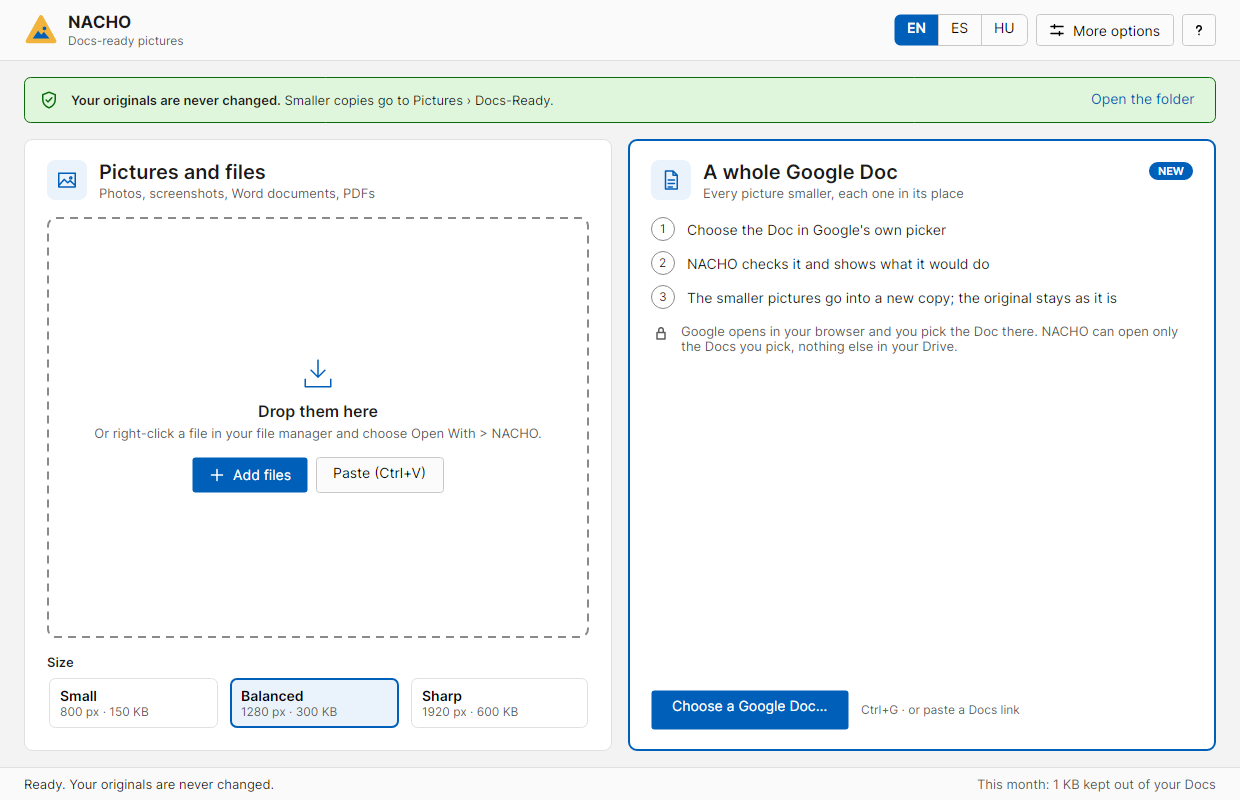
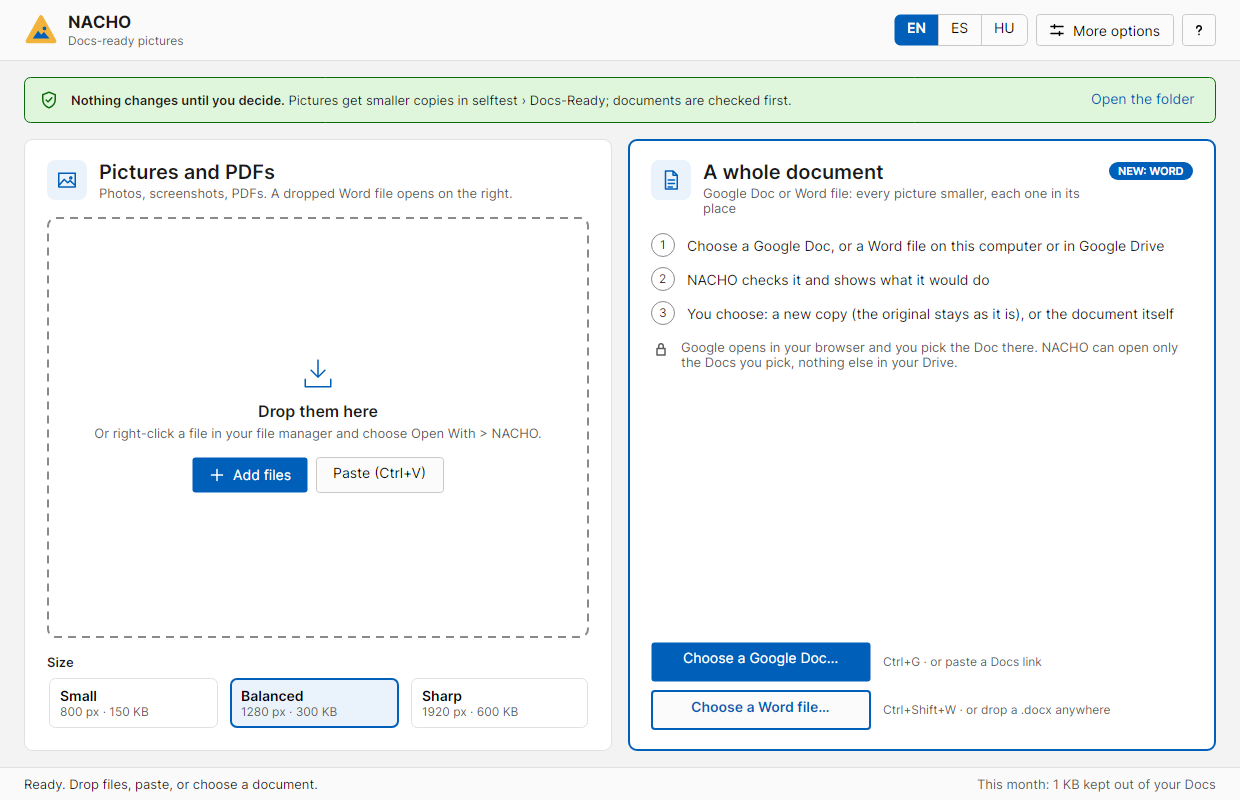
NACHO homepage and privacy policy: Word files (0.12.0)
The homepage mentions Word files on this PC or in Google Drive and shows the
new start screen and the Word window. The privacy policy covers Word files
picked in Google Drive under the same drive.file permission.

Claude-Session: https://claude.ai/code/session_01EvAJVggGjSeFEzwAp2Dcws

diff --git a/index.html b/index.html
@@ -19,14 +19,15 @@
 <h2>Shrink a whole Google Doc, keep the original safe</h2>
 <p>Choose a Doc in Google's own file picker. NACHO checks every picture first and shows what it would do. Then, by default, it puts the smaller pictures into <strong>a new copy of the Doc</strong>, in the same Drive folder, so your original stays exactly as it is. Each picture keeps its place, size and wrapping. If you prefer, NACHO can change the Doc itself instead, keeping its link, comments, sharing and version history.</p>
 <p>A real 410-page book with 251 photos went from 524 MB to 39 MB.</p>
+<p><strong>New in 0.12.0: Word files too.</strong> The same steps for a .docx on your computer or in Google Drive: a smaller copy next to the original by default, or the file itself, with the original saved first and a Restore original button.</p>
 <p><a class="button" href="https://github.com/csabakovacs314/NACHO/releases/latest">Download NACHO</a></p>
 </div>
 
 <h2>How it looks</h2>
 <p class="note">Screenshots from NACHO's own self-test, with a sample Doc and a test account.</p>
 <figure>
-<img src="img/start.png" width="1240" height="800" alt="NACHO start screen: Pictures and files on the left, A whole Google Doc on the right with three steps and a Choose a Google Doc button" loading="lazy">
-<figcaption>NACHO opens with both ways in: single pictures and files, or a whole Google Doc.</figcaption>
+<img src="img/start.png" width="1240" height="800" alt="NACHO start screen: Pictures and PDFs on the left, A whole document on the right with three steps, Choose a Google Doc and Choose a Word file" loading="lazy">
+<figcaption>NACHO opens with both ways in: single pictures and PDFs, or a whole document (a Google Doc or a Word file).</figcaption>
 </figure>
 <div class="pair">
 <figure>
@@ -38,14 +39,25 @@
 <figcaption>Step 5: the smaller copy is ready and the original is not touched.</figcaption>
 </figure>
 </div>
+<div class="pair">
+<figure>
+<img src="img/word-decide.png" width="704" height="821" alt="Word file, step 3: the file gets 96% smaller; Into this file selected, the original is saved first" loading="lazy">
+<figcaption>A Word file, step 3: a new copy next to the original, or the file itself with the original saved first.</figcaption>
+</figure>
+<figure>
+<img src="img/word-done.png" width="704" height="821" alt="Word file, step 5: Team handbook.docx is smaller, with Restore original" loading="lazy">
+<figcaption>Step 5: the file is smaller, and Restore original puts the old one back.</figcaption>
+</figure>
+</div>
 <figure>
 <img src="img/results.png" width="1224" height="761" alt="NACHO results: each picture as a card with the old size struck through and the new size, with a page-fit preview" loading="lazy">
-<figcaption>Single pictures, Word documents and PDFs: smaller copies, the original never changes.</figcaption>
+<figcaption>Single pictures and PDFs: smaller copies, the original never changes.</figcaption>
 </figure>
 
 <ul>
 <li><strong>Single pictures:</strong> drop a photo or screenshot on NACHO and it makes a small, Docs-ready copy. Your original file is never changed.</li>
-<li><strong>Word documents and PDFs:</strong> every picture inside is shrunk at once.</li>
+<li><strong>Word files:</strong> every picture inside is shrunk at once, on your computer or in Google Drive.</li>
+<li><strong>PDFs:</strong> pictures sharper than needed are scaled down; text, links and forms stay.</li>
 <li>English, Spanish and Hungarian.</li>
 </ul>
 
@@ -53,7 +65,7 @@
 
 <h2>How NACHO uses your Google account</h2>
 <div class="card">
-<p>Only when you use "Shrink a Google Doc". You sign in with Google in your browser and choose the Doc in Google's own file picker. NACHO can then open <strong>only the files you choose</strong> (and the temporary files it creates itself). It cannot see any other file in your Drive or any other Doc.</p>
+<p>Only when you use "Shrink a Google Doc" or choose a Word file in Google Drive. You sign in with Google in your browser and choose the Doc in Google's own file picker. NACHO can then open <strong>only the Docs and files you choose</strong> (and the temporary files it creates itself). It cannot see any other file in your Drive or any other Doc.</p>
 <p>The pictures are made smaller on your own computer and put into a copy of the Doc that Google makes in your Drive (or into the Doc itself, if you choose). Nothing is sent anywhere else. Details: <a href="privacy.html">privacy policy</a>.</p>
 </div>
 

diff --git a/privacy.html b/privacy.html
@@ -9,7 +9,7 @@
 <body>
 <main>
 <h1>NACHO privacy policy</h1>
-<p class="tagline">Last updated: 27 October 2026</p>
+<p class="tagline">Last updated: 28 October 2026</p>
 
 <p>NACHO is a desktop app for Windows and Linux. It runs on your own computer. It has no server and no account of its own, and its maker receives no data from it.</p>
 
@@ -17,11 +17,12 @@
 <p>NACHO reads the files you give it and writes smaller copies to a folder on your computer (Pictures\Docs-Ready unless you choose another). Nothing is uploaded, except as described under Google Docs below.</p>
 
 <h2>Google Docs</h2>
-<p>NACHO uses your Google account only when you choose "Shrink a Google Doc" and sign in. You sign in on Google's own page in your browser; NACHO never sees your password.</p>
+<p>NACHO uses your Google account only when you choose "Shrink a Google Doc" or "Choose in Google Drive" for a Word file, and sign in. You sign in on Google's own page in your browser; NACHO never sees your password.</p>
 <p>NACHO asks Google for one permission: <strong>"See, edit, create and delete only the specific Google Drive files that you use with this app"</strong> (<code>drive.file</code>). That covers:</p>
 <ul>
 <li>the Google Doc you choose in Google's file picker, which NACHO reads;</li>
 <li>a copy of that Doc, which Google makes in your Drive (same folder) when you choose "Into a new copy", the default. NACHO replaces each picture in the copy with a smaller one, keeping its place and size, and does not change the original. If you choose "Into this Doc" instead, NACHO replaces the pictures in the Doc itself; and</li>
+<li>the Word files (.docx) you choose in Google's file picker, which NACHO downloads to your computer. With "Into a new copy", the default, NACHO uploads the smaller file as a new file in the same folder (or in My Drive if it can't add files there) and does not change the original. With "Into this file", NACHO uploads the smaller file as a new version of the same file; Google Drive keeps the old version in Manage versions; and</li>
 <li>temporary picture files NACHO creates in your Drive. Each is shared as "anyone with the link" for a few seconds, so Google Docs can copy it into your Doc, and then deleted.</li>
 </ul>
 <p>NACHO cannot see any other file in your Drive.</p>
@@ -29,9 +30,9 @@
 <h2>How the data is handled</h2>
 <ul>
 <li>The pictures of the Doc you choose are downloaded to your computer, made smaller there, and put into the copy (or, if you choose, back into the same Doc). NACHO never deletes a Doc.</li>
-<li>If you choose (it is on by default), copies of the original pictures are kept on your computer, in Docs-Ready\Google Docs originals. You can delete them at any time.</li>
+<li>If you choose (it is on by default), copies of the original pictures are kept on your computer, in Docs-Ready\Google Docs originals, and a copy of a Word file changed in Drive is kept in Docs-Ready\Word originals. You can delete them at any time.</li>
 <li>Your sign-in (a refresh token) is stored only on your computer: encrypted for your Windows user, or on Linux in a file only your user can read. Signing out in NACHO deletes it and asks Google to revoke it.</li>
-<li>No data from your Google account is sent anywhere else, sold, shared, used for advertising, or used to train any AI or machine-learning model. NACHO keeps no other copy of your Docs.</li>
+<li>No data from your Google account is sent anywhere else, sold, shared, used for advertising, or used to train any AI or machine-learning model. NACHO keeps no other copy of your Docs or files.</li>
 <li>NACHO's use and transfer of information received from Google APIs adheres to the <a href="https://developers.google.com/terms/api-services-user-data-policy">Google API Services User Data Policy</a>, including the Limited Use requirements.</li>
 </ul>
 <p>You can remove NACHO's access at any time at <a href="https://myaccount.google.com/connections">myaccount.google.com/connections</a>.</p>
